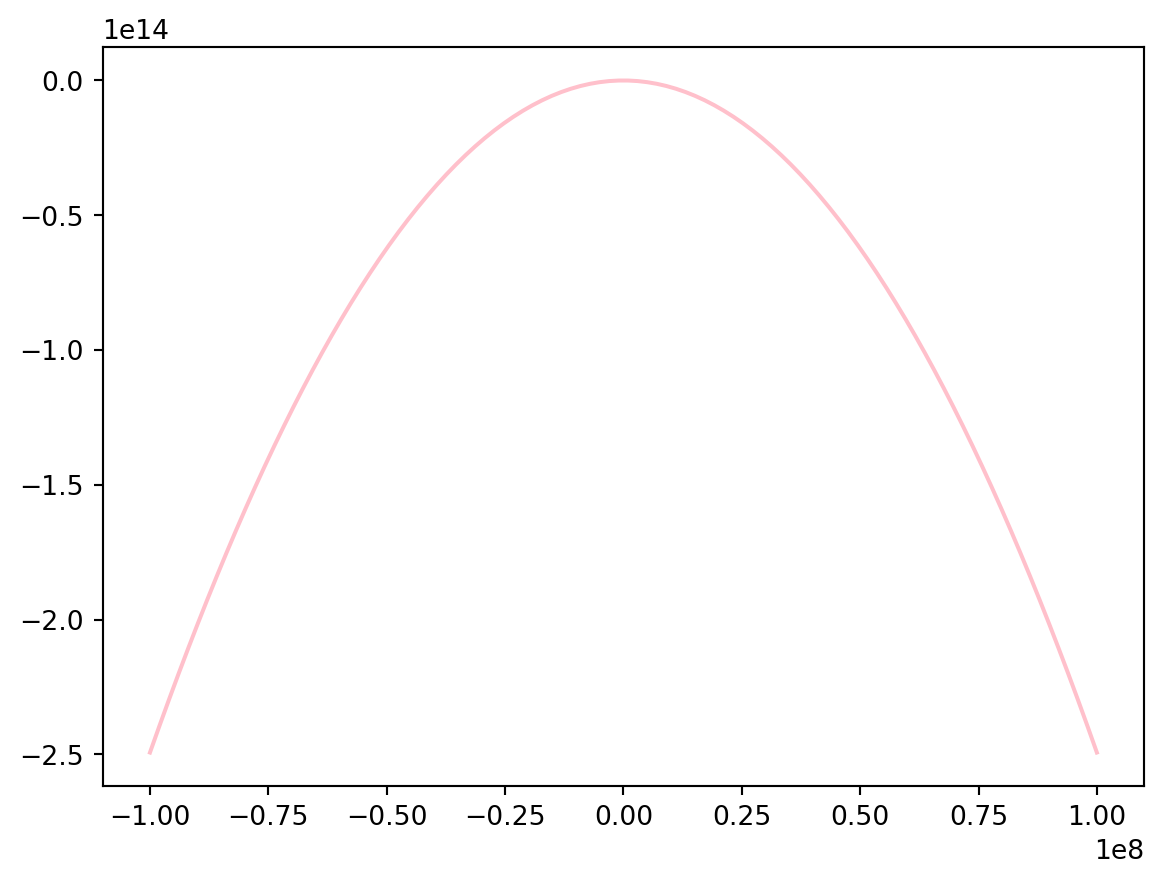
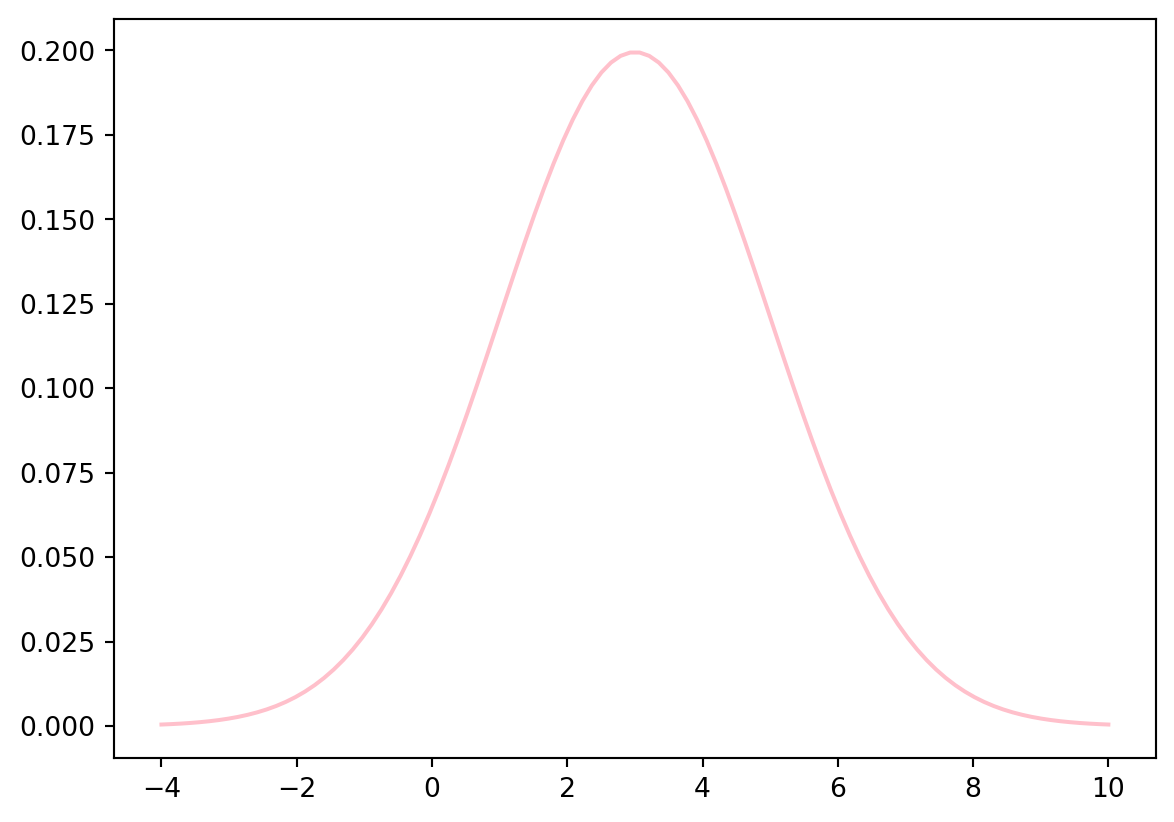
hw3 수정

diff --git a/docs/posts/hw3/index.html b/docs/posts/hw3/index.html
@@ -198,30 +198,33 @@ pre > code.sourceCode > span > a:first-child::before { text-decoration: underlin
 
 <section id="q1." class="level2">
 <h2 class="anchored" data-anchor-id="q1.">Q1.</h2>
-<div id="982747f8" class="cell" data-execution_count="1">
+<div id="6d9f7f66" class="cell" data-execution_count="1">
 <div class="sourceCode cell-code" id="cb1"><pre class="sourceCode python code-with-copy"><code class="sourceCode python"><span id="cb1-1"><a href="#cb1-1" aria-hidden="true" tabindex="-1"></a><span class="co"># 정규분포 pdf 값을 계산하는 자신만의</span></span>
 <span id="cb1-2"><a href="#cb1-2" aria-hidden="true" tabindex="-1"></a><span class="co"># 파이썬 함수를 정의하고, </span></span>
 <span id="cb1-3"><a href="#cb1-3" aria-hidden="true" tabindex="-1"></a><span class="co"># 정규분포 mu = 3, sigma = 2 의 pdf를 그릴 것.</span></span>
-<span id="cb1-4"><a href="#cb1-4" aria-hidden="true" tabindex="-1"></a><span class="im">import</span> math</span>
-<span id="cb1-5"><a href="#cb1-5" aria-hidden="true" tabindex="-1"></a><span class="im">import</span> numpy <span class="im">as</span> np</span>
-<span id="cb1-6"><a href="#cb1-6" aria-hidden="true" tabindex="-1"></a><span class="im">import</span> matplotlib.pyplot <span class="im">as</span> plt</span>
-<span id="cb1-7"><a href="#cb1-7" aria-hidden="true" tabindex="-1"></a></span>
-<span id="cb1-8"><a href="#cb1-8" aria-hidden="true" tabindex="-1"></a></span>
-<span id="cb1-9"><a href="#cb1-9" aria-hidden="true" tabindex="-1"></a>k <span class="op">=</span> np.linspace(<span class="op">-</span><span class="dv">100000000</span>, <span class="dv">100000000</span>, <span class="dv">100</span>)</span>
+<span id="cb1-4"><a href="#cb1-4" aria-hidden="true" tabindex="-1"></a><span class="co"># 정규분포 pdf 값을 계산하는 자신만의</span></span>
+<span id="cb1-5"><a href="#cb1-5" aria-hidden="true" tabindex="-1"></a><span class="co"># 파이썬 함수를 정의하고, </span></span>
+<span id="cb1-6"><a href="#cb1-6" aria-hidden="true" tabindex="-1"></a><span class="co"># 정규분포 mu = 3, sigma = 2 의 pdf를 그릴 것.</span></span>
+<span id="cb1-7"><a href="#cb1-7" aria-hidden="true" tabindex="-1"></a><span class="im">import</span> math</span>
+<span id="cb1-8"><a href="#cb1-8" aria-hidden="true" tabindex="-1"></a><span class="im">import</span> numpy <span class="im">as</span> np</span>
+<span id="cb1-9"><a href="#cb1-9" aria-hidden="true" tabindex="-1"></a><span class="im">import</span> matplotlib.pyplot <span class="im">as</span> plt</span>
 <span id="cb1-10"><a href="#cb1-10" aria-hidden="true" tabindex="-1"></a></span>
-<span id="cb1-11"><a href="#cb1-11" aria-hidden="true" tabindex="-1"></a><span class="kw">def</span> normal_pdf(x, mu, sigma):</span>
-<span id="cb1-12"><a href="#cb1-12" aria-hidden="true" tabindex="-1"></a>    part1<span class="op">=</span>(sigma <span class="op">*</span> (math.sqrt(<span class="dv">2</span><span class="op">*</span>math.pi)))<span class="op">**-</span><span class="dv">1</span></span>
-<span id="cb1-13"><a href="#cb1-13" aria-hidden="true" tabindex="-1"></a>    part2<span class="op">=</span>(<span class="op">-</span>(x<span class="op">-</span>mu)<span class="op">**</span><span class="dv">2</span><span class="op">/</span>(<span class="dv">2</span><span class="op">*</span>sigma<span class="op">**</span><span class="dv">2</span>))</span>
-<span id="cb1-14"><a href="#cb1-14" aria-hidden="true" tabindex="-1"></a>    <span class="cf">return</span> part1 <span class="op">*</span> part2</span>
-<span id="cb1-15"><a href="#cb1-15" aria-hidden="true" tabindex="-1"></a></span>
-<span id="cb1-16"><a href="#cb1-16" aria-hidden="true" tabindex="-1"></a>y <span class="op">=</span> normal_pdf(k, mu<span class="op">=</span><span class="dv">3</span>, sigma<span class="op">=</span><span class="dv">2</span>)</span>
-<span id="cb1-17"><a href="#cb1-17" aria-hidden="true" tabindex="-1"></a>plt.plot(k, y, color<span class="op">=</span><span class="st">"pink"</span>)</span>
-<span id="cb1-18"><a href="#cb1-18" aria-hidden="true" tabindex="-1"></a>plt.show()</span>
-<span id="cb1-19"><a href="#cb1-19" aria-hidden="true" tabindex="-1"></a>plt.clf()</span></code><button title="Copy to Clipboard" class="code-copy-button"><i class="bi"></i></button></pre></div>
+<span id="cb1-11"><a href="#cb1-11" aria-hidden="true" tabindex="-1"></a></span>
+<span id="cb1-12"><a href="#cb1-12" aria-hidden="true" tabindex="-1"></a>k <span class="op">=</span> np.linspace(<span class="op">-</span><span class="dv">4</span>, <span class="dv">10</span>, <span class="dv">100</span>)</span>
+<span id="cb1-13"><a href="#cb1-13" aria-hidden="true" tabindex="-1"></a></span>
+<span id="cb1-14"><a href="#cb1-14" aria-hidden="true" tabindex="-1"></a><span class="kw">def</span> normal_pdf(x, mu, sigma):</span>
+<span id="cb1-15"><a href="#cb1-15" aria-hidden="true" tabindex="-1"></a>    part1<span class="op">=</span>(sigma <span class="op">*</span> (math.sqrt(<span class="dv">2</span><span class="op">*</span>math.pi)))<span class="op">**</span>(<span class="op">-</span><span class="dv">1</span>)</span>
+<span id="cb1-16"><a href="#cb1-16" aria-hidden="true" tabindex="-1"></a>    part2<span class="op">=</span>np.exp(<span class="op">-</span>(x<span class="op">-</span>mu)<span class="op">**</span><span class="dv">2</span><span class="op">/</span>(<span class="dv">2</span><span class="op">*</span>sigma<span class="op">**</span><span class="dv">2</span>))</span>
+<span id="cb1-17"><a href="#cb1-17" aria-hidden="true" tabindex="-1"></a>    <span class="cf">return</span> part1 <span class="op">*</span> part2</span>
+<span id="cb1-18"><a href="#cb1-18" aria-hidden="true" tabindex="-1"></a></span>
+<span id="cb1-19"><a href="#cb1-19" aria-hidden="true" tabindex="-1"></a>y <span class="op">=</span> normal_pdf(k, mu<span class="op">=</span><span class="dv">3</span>, sigma<span class="op">=</span><span class="dv">2</span>)</span>
+<span id="cb1-20"><a href="#cb1-20" aria-hidden="true" tabindex="-1"></a>plt.plot(k, y, color<span class="op">=</span><span class="st">"pink"</span>)</span>
+<span id="cb1-21"><a href="#cb1-21" aria-hidden="true" tabindex="-1"></a>plt.show()</span>
+<span id="cb1-22"><a href="#cb1-22" aria-hidden="true" tabindex="-1"></a>plt.clf()</span></code><button title="Copy to Clipboard" class="code-copy-button"><i class="bi"></i></button></pre></div>
 <div class="cell-output cell-output-display">
 <div>
 <figure class="figure">
-<p><img src="index_files/figure-html/cell-2-output-1.png" width="582" height="442" class="figure-img"></p>
+<p><img src="index_files/figure-html/cell-2-output-1.png" width="587" height="411" class="figure-img"></p>
 </figure>
 </div>
 </div>
@@ -232,36 +235,44 @@ pre > code.sourceCode > span > a:first-child::before { text-decoration: underlin
 </section>
 <section id="q2." class="level2">
 <h2 class="anchored" data-anchor-id="q2.">Q2.</h2>
-<div id="813d4170" class="cell" data-execution_count="2">
+<div id="9ef0f8be" class="cell" data-execution_count="2">
 <div class="sourceCode cell-code" id="cb3"><pre class="sourceCode python code-with-copy"><code class="sourceCode python"><span id="cb3-1"><a href="#cb3-1" aria-hidden="true" tabindex="-1"></a><span class="co"># 파이썬 scipy 패키지 사용해서 다음과 같은 확률을 구하시오.</span></span>
 <span id="cb3-2"><a href="#cb3-2" aria-hidden="true" tabindex="-1"></a><span class="co"># X ~ N(2, 3^2)</span></span>
 <span id="cb3-3"><a href="#cb3-3" aria-hidden="true" tabindex="-1"></a></span>
 <span id="cb3-4"><a href="#cb3-4" aria-hidden="true" tabindex="-1"></a><span class="im">from</span> scipy.stats <span class="im">import</span> norm</span>
 <span id="cb3-5"><a href="#cb3-5" aria-hidden="true" tabindex="-1"></a></span>
 <span id="cb3-6"><a href="#cb3-6" aria-hidden="true" tabindex="-1"></a><span class="co">#1 P(X &lt; 3)</span></span>
-<span id="cb3-7"><a href="#cb3-7" aria-hidden="true" tabindex="-1"></a>norm.cdf(<span class="dv">3</span>, loc<span class="op">=</span><span class="dv">2</span>, scale<span class="op">=</span><span class="dv">3</span>)</span>
-<span id="cb3-8"><a href="#cb3-8" aria-hidden="true" tabindex="-1"></a></span>
-<span id="cb3-9"><a href="#cb3-9" aria-hidden="true" tabindex="-1"></a><span class="co">#2 P(2 &lt; X &lt; 5)</span></span>
-<span id="cb3-10"><a href="#cb3-10" aria-hidden="true" tabindex="-1"></a>norm.cdf(<span class="dv">5</span>, loc<span class="op">=</span><span class="dv">2</span>, scale<span class="op">=</span><span class="dv">3</span>) <span class="op">-</span> norm.cdf(<span class="dv">2</span>, loc<span class="op">=</span><span class="dv">2</span>, scale<span class="op">=</span><span class="dv">3</span>)</span>
-<span id="cb3-11"><a href="#cb3-11" aria-hidden="true" tabindex="-1"></a></span>
-<span id="cb3-12"><a href="#cb3-12" aria-hidden="true" tabindex="-1"></a><span class="co">#3 P(X &lt; 3 or X &gt; 7)</span></span>
-<span id="cb3-13"><a href="#cb3-13" aria-hidden="true" tabindex="-1"></a>norm.cdf(<span class="dv">3</span>, loc<span class="op">=</span><span class="dv">2</span>, scale<span class="op">=</span><span class="dv">3</span>) <span class="op">+</span> (<span class="dv">1</span><span class="op">-</span>norm.cdf(<span class="dv">7</span>, loc<span class="op">=</span><span class="dv">2</span>, scale<span class="op">=</span><span class="dv">3</span>))</span></code><button title="Copy to Clipboard" class="code-copy-button"><i class="bi"></i></button></pre></div>
-<div class="cell-output cell-output-display" data-execution_count="5">
+<span id="cb3-7"><a href="#cb3-7" aria-hidden="true" tabindex="-1"></a>norm.cdf(<span class="dv">3</span>, loc<span class="op">=</span><span class="dv">2</span>, scale<span class="op">=</span><span class="dv">3</span>)</span></code><button title="Copy to Clipboard" class="code-copy-button"><i class="bi"></i></button></pre></div>
+<div class="cell-output cell-output-display" data-execution_count="2">
+<pre><code>np.float64(0.6305586598182363)</code></pre>
+</div>
+</div>
+<div id="9c584e31" class="cell" data-execution_count="3">
+<div class="sourceCode cell-code" id="cb5"><pre class="sourceCode python code-with-copy"><code class="sourceCode python"><span id="cb5-1"><a href="#cb5-1" aria-hidden="true" tabindex="-1"></a><span class="co">#2 P(2 &lt; X &lt; 5)</span></span>
+<span id="cb5-2"><a href="#cb5-2" aria-hidden="true" tabindex="-1"></a>norm.cdf(<span class="dv">5</span>, loc<span class="op">=</span><span class="dv">2</span>, scale<span class="op">=</span><span class="dv">3</span>) <span class="op">-</span> norm.cdf(<span class="dv">2</span>, loc<span class="op">=</span><span class="dv">2</span>, scale<span class="op">=</span><span class="dv">3</span>)</span></code><button title="Copy to Clipboard" class="code-copy-button"><i class="bi"></i></button></pre></div>
+<div class="cell-output cell-output-display" data-execution_count="3">
+<pre><code>np.float64(0.3413447460685429)</code></pre>
+</div>
+</div>
+<div id="678df230" class="cell" data-execution_count="4">
+<div class="sourceCode cell-code" id="cb7"><pre class="sourceCode python code-with-copy"><code class="sourceCode python"><span id="cb7-1"><a href="#cb7-1" aria-hidden="true" tabindex="-1"></a><span class="co">#3 P(X &lt; 3 or X &gt; 7)</span></span>
+<span id="cb7-2"><a href="#cb7-2" aria-hidden="true" tabindex="-1"></a>norm.cdf(<span class="dv">3</span>, loc<span class="op">=</span><span class="dv">2</span>, scale<span class="op">=</span><span class="dv">3</span>) <span class="op">+</span> (<span class="dv">1</span><span class="op">-</span>norm.cdf(<span class="dv">7</span>, loc<span class="op">=</span><span class="dv">2</span>, scale<span class="op">=</span><span class="dv">3</span>))</span></code><button title="Copy to Clipboard" class="code-copy-button"><i class="bi"></i></button></pre></div>
+<div class="cell-output cell-output-display" data-execution_count="4">
 <pre><code>np.float64(0.678349012091051)</code></pre>
 </div>
 </div>
 </section>
 <section id="q3." class="level2">
 <h2 class="anchored" data-anchor-id="q3.">Q3.</h2>
-<div id="d5e27a77" class="cell" data-execution_count="3">
-<div class="sourceCode cell-code" id="cb5"><pre class="sourceCode python code-with-copy"><code class="sourceCode python"><span id="cb5-1"><a href="#cb5-1" aria-hidden="true" tabindex="-1"></a><span class="co"># LS빅데이터 스쿨 학생들의 중간고사 점수는 </span></span>
-<span id="cb5-2"><a href="#cb5-2" aria-hidden="true" tabindex="-1"></a><span class="co"># 평균이 30이고, 분산이 4인 정규분포</span></span>
-<span id="cb5-3"><a href="#cb5-3" aria-hidden="true" tabindex="-1"></a><span class="co"># 상위 5%에 해당하는 학생 수는?</span></span>
-<span id="cb5-4"><a href="#cb5-4" aria-hidden="true" tabindex="-1"></a></span>
-<span id="cb5-5"><a href="#cb5-5" aria-hidden="true" tabindex="-1"></a>x<span class="op">=</span>np.arange(<span class="dv">28</span>)</span>
-<span id="cb5-6"><a href="#cb5-6" aria-hidden="true" tabindex="-1"></a>k <span class="op">=</span> norm.pdf(x, loc<span class="op">=</span><span class="dv">30</span>, scale<span class="op">=</span><span class="dv">2</span>)</span>
-<span id="cb5-7"><a href="#cb5-7" aria-hidden="true" tabindex="-1"></a><span class="bu">sum</span>(k<span class="op">&gt;</span><span class="fl">0.01645</span>)</span></code><button title="Copy to Clipboard" class="code-copy-button"><i class="bi"></i></button></pre></div>
-<div class="cell-output cell-output-display" data-execution_count="6">
+<div id="67fa4553" class="cell" data-execution_count="5">
+<div class="sourceCode cell-code" id="cb9"><pre class="sourceCode python code-with-copy"><code class="sourceCode python"><span id="cb9-1"><a href="#cb9-1" aria-hidden="true" tabindex="-1"></a><span class="co"># LS빅데이터 스쿨 학생들의 중간고사 점수는 </span></span>
+<span id="cb9-2"><a href="#cb9-2" aria-hidden="true" tabindex="-1"></a><span class="co"># 평균이 30이고, 분산이 4인 정규분포</span></span>
+<span id="cb9-3"><a href="#cb9-3" aria-hidden="true" tabindex="-1"></a><span class="co"># 상위 5%에 해당하는 학생 수는?</span></span>
+<span id="cb9-4"><a href="#cb9-4" aria-hidden="true" tabindex="-1"></a></span>
+<span id="cb9-5"><a href="#cb9-5" aria-hidden="true" tabindex="-1"></a>x<span class="op">=</span>np.arange(<span class="dv">28</span>)</span>
+<span id="cb9-6"><a href="#cb9-6" aria-hidden="true" tabindex="-1"></a>k <span class="op">=</span> norm.pdf(x, loc<span class="op">=</span><span class="dv">30</span>, scale<span class="op">=</span><span class="dv">2</span>)</span>
+<span id="cb9-7"><a href="#cb9-7" aria-hidden="true" tabindex="-1"></a><span class="bu">sum</span>(k<span class="op">&gt;</span><span class="fl">0.01645</span>)</span></code><button title="Copy to Clipboard" class="code-copy-button"><i class="bi"></i></button></pre></div>
+<div class="cell-output cell-output-display" data-execution_count="5">
 <pre><code>np.int64(2)</code></pre>
 </div>
 </div>

diff --git a/docs/blog.html b/docs/blog.html
@@ -202,7 +202,7 @@ window.Quarto = {
 
 <div class="quarto-listing quarto-listing-container-default" id="listing-listing">
 <div class="list quarto-listing-default">
-<div class="quarto-post image-right" data-index="0" data-categories="bigdata" data-listing-date-sort="1721833200000" data-listing-file-modified-sort="1721899902049" data-listing-date-modified-sort="NaN" data-listing-reading-time-sort="1" data-listing-word-count-sort="124">
+<div class="quarto-post image-right" data-index="0" data-categories="bigdata" data-listing-date-sort="1721833200000" data-listing-file-modified-sort="1721949944542" data-listing-date-modified-sort="NaN" data-listing-reading-time-sort="1" data-listing-word-count-sort="144">
 <div class="thumbnail">
 <p><a href="./posts/hw3/index.html" class="no-external"></a></p><a href="./posts/hw3/index.html" class="no-external">
 <p class="card-img-top"><img src="posts\hw3\index_files\figure-html\cell-2-output-1.png"  class="thumbnail-image card-img"/></p>
@@ -223,16 +223,15 @@ bigdata
 <div class="listing-description">
 <a href="./posts/hw3/index.html" class="no-external">
 
-<div id="982747f8" class="cell" data-execution_count="1">
+<div id="6d9f7f66" class="cell" data-execution_count="1">
 <div class="sourceCode cell-code" id="cb1"><pre class="sourceCode python code-with-copy"><code class="sourceCode python"><span id="cb1-1"><span class="co"># 정규분포 pdf 값을 계산하는 자신만의</span></span>
 <span id="cb1-2"><span class="co"># 파이썬 함수를 정의하고, </span></span>
 <span id="cb1-3"><span class="co"># 정규분포 mu = 3, sigma = 2 의 pdf를 그릴 것.</span></span>
-<span id="cb1-4"><span class="im">import</span> math</span>
-<span id="cb1-5"><span class="im">import</span> numpy <span class="im">as</span> np</span>
-<span id="cb1-6"><span class="im">import</span> matplotlib.pyplot <span class="im">as</span> plt</span>
-<span id="cb1-7"></span>
-<span id="cb1-8"></span>
-<span id="cb1-9">k <span class="op">=</span> np.linspace(<span class="op">-</span><span class="dv">100000000</span>, <span class="dv">…</span><span class="dv"></span></span><span id="cb1-10"></span><span id="cb1-11"><span class="kw"></span></span><span id="cb1-12"><span class="op"></span><span class="op"></span><span class="dv"></span><span class="op"></span><span class="op"></span><span class="dv"></span></span><span id="cb1-13"><span class="op"></span><span class="op"></span><span class="op"></span><span class="op"></span><span class="dv"></span><span class="op"></span><span class="dv"></span><span class="op"></span><span class="op"></span><span class="dv"></span></span><span id="cb1-14"><span class="cf"></span><span class="op"></span></span><span id="cb1-15"></span><span id="cb1-16"><span class="op"></span><span class="op"></span><span class="dv"></span><span class="op"></span><span class="dv"></span></span><span id="cb1-17"><span class="op"></span><span class="st"></span></span><span id="cb1-18"></span><span id="cb1-19"></span></code></pre></div><div class="cell-output cell-output-display"><div><figure class="figure"><p></p></figure></div></div><div class="cell-output cell-output-display"><pre><code></code></pre></div></div></a>
+<span id="cb1-4"><span class="co"># 정규분포 pdf 값을 계산하는 자신만의</span></span>
+<span id="cb1-5"><span class="co"># 파이썬 함수를 정의하고, </span></span>
+<span id="cb1-6"><span class="co"># 정규분포 mu = 3, sigma = 2 의 pdf를 그릴 것.</span></span>
+<span id="cb1-7"><span class="im">import</span> math</span>
+<span id="cb1-8"><span class="im">i…</span><span class="im"></span></span><span id="cb1-9"><span class="im"></span><span class="im"></span></span><span id="cb1-10"></span><span id="cb1-11"></span><span id="cb1-12"><span class="op"></span><span class="op"></span><span class="dv"></span><span class="dv"></span><span class="dv"></span></span><span id="cb1-13"></span><span id="cb1-14"><span class="kw"></span></span><span id="cb1-15"><span class="op"></span><span class="op"></span><span class="dv"></span><span class="op"></span><span class="op"></span><span class="op"></span><span class="dv"></span></span><span id="cb1-16"><span class="op"></span><span class="op"></span><span class="op"></span><span class="op"></span><span class="dv"></span><span class="op"></span><span class="dv"></span><span class="op"></span><span class="op"></span><span class="dv"></span></span><span id="cb1-17"><span class="cf"></span><span class="op"></span></span><span id="cb1-18"></span><span id="cb1-19"><span class="op"></span><span class="op"></span><span class="dv"></span><span class="op"></span><span class="dv"></span></span><span id="cb1-20"><span class="op"></span><span class="st"></span></span><span id="cb1-21"></span><span id="cb1-22"></span></code></pre></div><div class="cell-output cell-output-display"><div><figure class="figure"><p></p></figure></div></div><div class="cell-output cell-output-display"><pre><code></code></pre></div></div></a>
 </div>
 </div>
 <div class="metadata">
